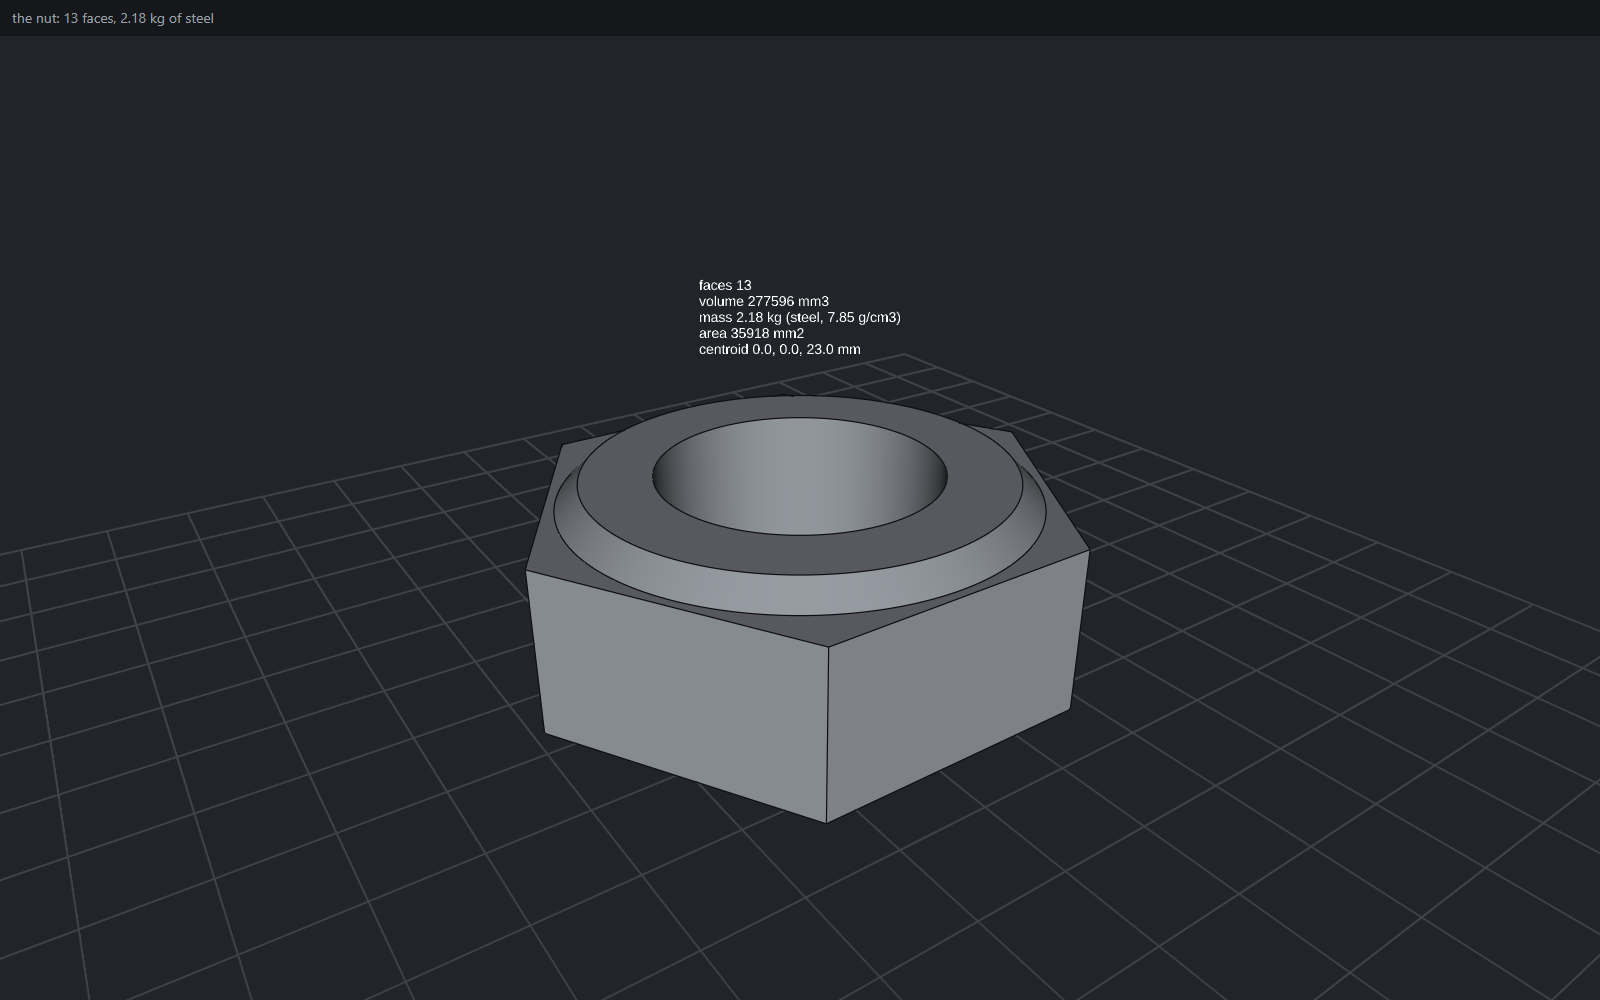
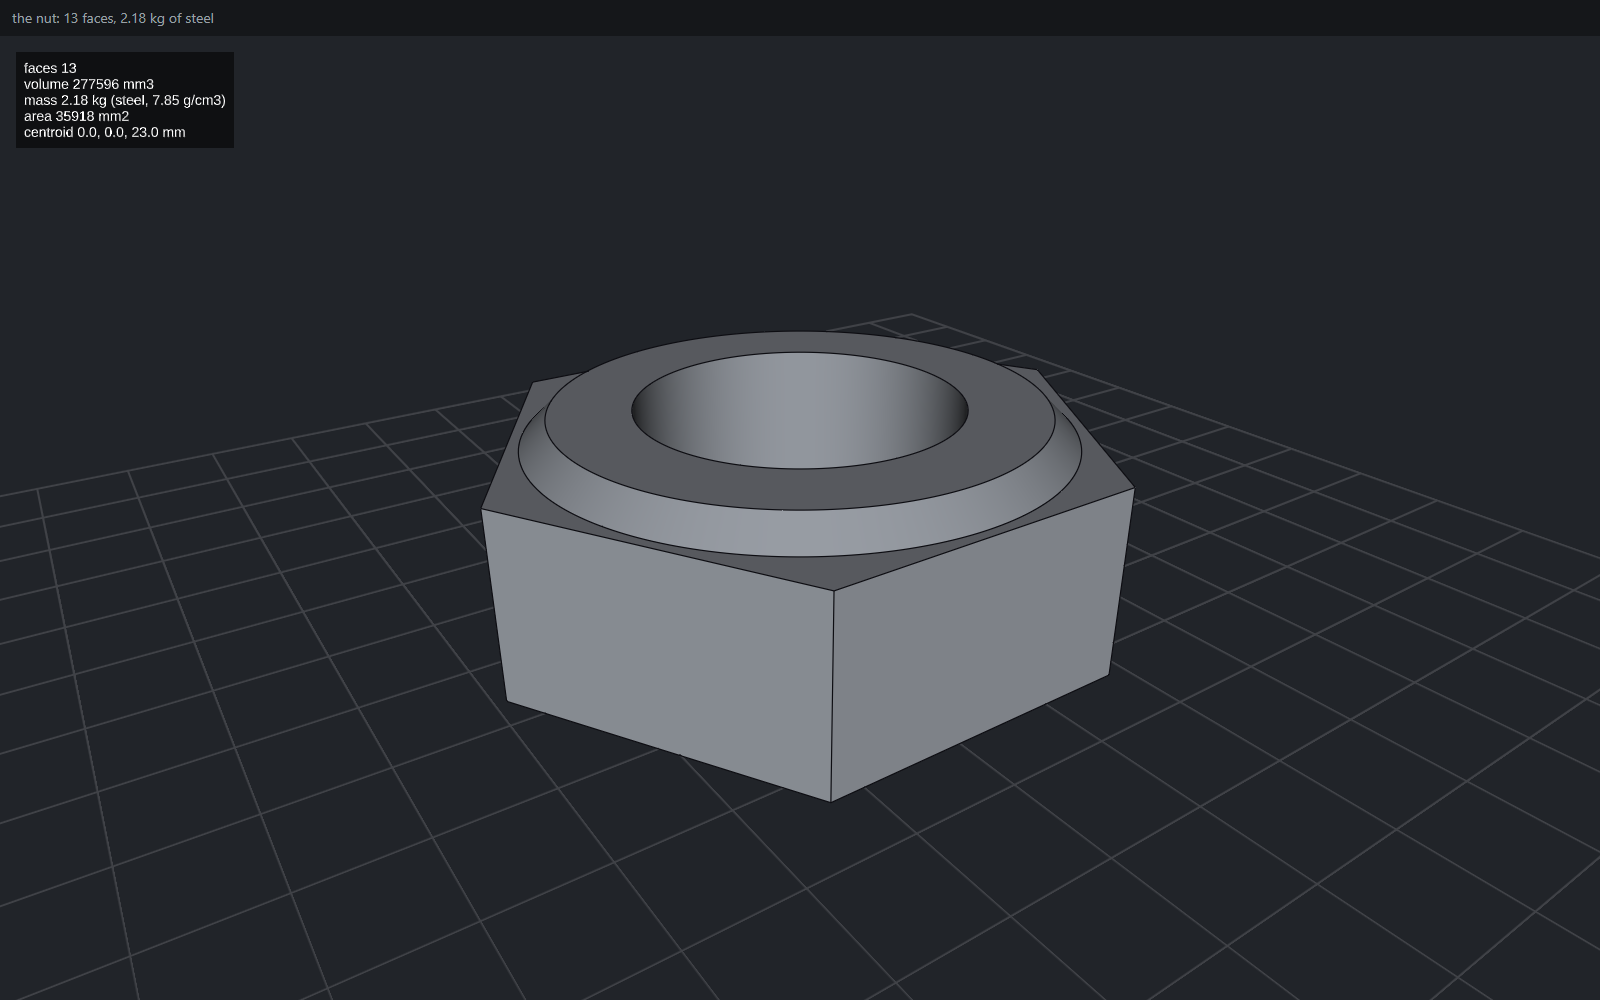
show the figures as an overlay in the corner

diff --git a/src/lib.rs b/src/lib.rs
@@ -2,7 +2,7 @@
 //! `src/web.rs` in the browser.
 
 use cadaclysm_sdk::blacksmith::{Frame, Profile, Solid};
-use cadaclysm_sdk::view::{Align, Text, View};
+use cadaclysm_sdk::view::{Anchor, Text, View};
 
 #[cfg(target_arch = "wasm32")]
 mod web;
@@ -35,7 +35,7 @@ pub fn nut() -> cadaclysm_sdk::Result<Solid> {
 /// Steel, in kg per mm³ (7.85 g/cm³). The kernel measures the volume; the material is ours.
 const STEEL: f64 = 7.85e-6;
 
-/// Draws the nut in `view` with a label of its figures above it, and returns a one-line
+/// Draws the nut in `view` with its figures in the window's corner, and returns a one-line
 /// summary. The desktop window and the web page both call this.
 pub fn present<'a>(view: &View<'a>, nut: &'a Solid) -> cadaclysm_sdk::Result<String> {
     let mass = nut.mass(0.0)?;
@@ -48,8 +48,9 @@ pub fn present<'a>(view: &View<'a>, nut: &'a Solid) -> cadaclysm_sdk::Result<Str
     );
 
     view.show_solid(nut, 0.05, None)?;
-    // 70 mm up: 24 mm above the nut's top face, so the label clears its far rim.
-    view.show_text(&Text::label(figures, [cx as f32, cy as f32, 70.0]).size(16.0).colour("white").align(Align::Bottom))?;
+    // The figures in the window's top-left corner, 16 pixels in, on a dark box.
+    let text = Text::overlay(figures).size(16.0).colour("white").box_colour([0.0, 0.0, 0.0, 0.55]).padding(8.0);
+    view.show_overlay_text(&text, Anchor::TopLeft, 16.0, 16.0, 0)?;
     view.frame()?;
     Ok(format!("the nut: {faces} faces, {kg:.2} kg of steel"))
 }

diff --git a/README.md b/README.md
@@ -2,7 +2,7 @@
 
 A hex nut modelled in Rust with [cadaclysm](https://cadaclysm.blitter.studio), then
 shown in two places from the same code: a desktop window and a web page, each with the
-nut's figures (volume, mass in steel, area, centroid) drawn beside it.
+nut's figures (volume, mass in steel, area, centroid) in the window's corner.
 
 | On the desktop | In the browser |
 |---|---|
@@ -93,11 +93,11 @@ as an error with the kernel's own explanation.
 ## Step 3: show it, with its figures
 
 Also in [`src/lib.rs`](src/lib.rs), `present` draws the nut in a `View` and writes its
-figures above it. Both programs call it, so the desktop window and the web page show the
+figures in the window's top-left corner. Both programs call it, so the desktop window and the web page show the
 same thing:
 
 ```rust
-use cadaclysm_sdk::view::{Align, Text, View};
+use cadaclysm_sdk::view::{Anchor, Text, View};
 
 /// Steel, in kg per mm³ (7.85 g/cm³). The kernel measures the volume; the material is ours.
 const STEEL: f64 = 7.85e-6;
@@ -113,8 +113,9 @@ pub fn present<'a>(view: &View<'a>, nut: &'a Solid) -> cadaclysm_sdk::Result<Str
     );
 
     view.show_solid(nut, 0.05, None)?;
-    // 70 mm up: 24 mm above the nut's top face, so the label clears its far rim.
-    view.show_text(&Text::label(figures, [cx as f32, cy as f32, 70.0]).size(16.0).colour("white").align(Align::Bottom))?;
+    // The figures in the window's top-left corner, 16 pixels in, on a dark box.
+    let text = Text::overlay(figures).size(16.0).colour("white").box_colour([0.0, 0.0, 0.0, 0.55]).padding(8.0);
+    view.show_overlay_text(&text, Anchor::TopLeft, 16.0, 16.0, 0)?;
     view.frame()?;
     Ok(format!("the nut: {faces} faces, {kg:.2} kg of steel"))
 }
@@ -123,8 +124,10 @@ pub fn present<'a>(view: &View<'a>, nut: &'a Solid) -> cadaclysm_sdk::Result<Str
 - **`nut.mass(0.0)`** measures the solid exactly: its volume, surface area and centroid.
   The kernel doesn't know what the nut is made of, so the density, steel here, is ours.
 - **`show_solid`** hands the exact solid to the view, which meshes it itself.
-- **`Text::label`** puts text at a point in the model, so it moves with the nut when you
-  orbit. `Align::Bottom` puts the text above that point.
+- **`show_overlay_text`** draws text over the window, hung from one of nine anchors
+  (`Anchor::TopLeft` here, 16 pixels in from each edge). The camera never moves it, and it
+  stays in its corner when the window is resized. `Text::overlay` makes the text; its box
+  colour has an alpha, so the dark box lets the nut show through.
 - **`frame`** fits the camera to what the view shows.
 - The returned line is a short summary for the program to print or display.
 
@@ -168,7 +171,7 @@ saved nut.step
 the nut: 13 faces, 2.18 kg of steel
 ```
 
-The window opens with the nut framed and its figures above it. Drag to orbit and use the
+The window opens with the nut framed and its figures in the top-left corner. Drag to orbit and use the
 wheel to zoom. The program ends when you close the window.
 
 ![The nut in a desktop window](screenshots/desktop.png)
